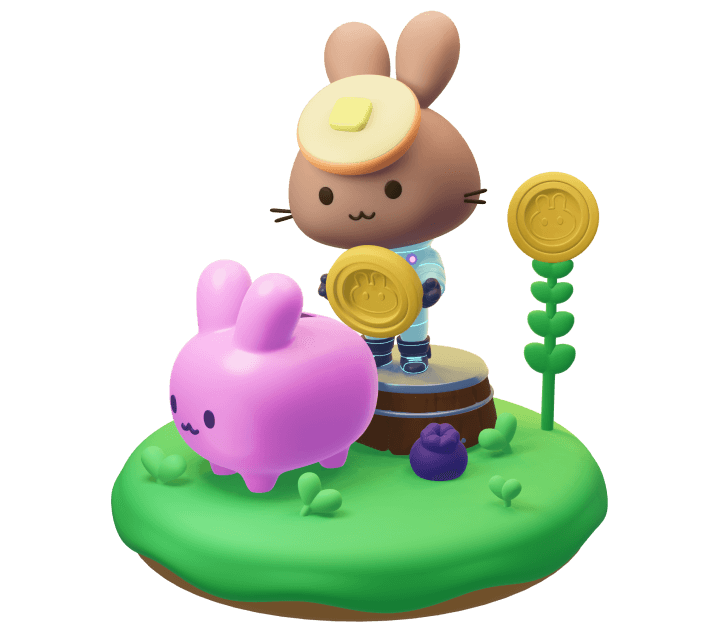
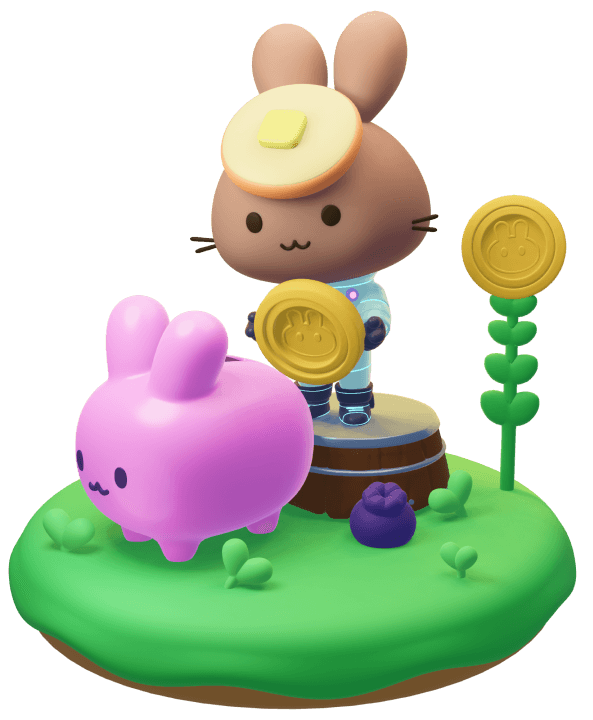
chore: update section 3

diff --git a/apps/web/src/views/Home/components/EcoSystemSection/index.tsx b/apps/web/src/views/Home/components/EcoSystemSection/index.tsx
@@ -1,31 +1,54 @@
-import { Flex, Text } from '@pancakeswap/uikit'
+import { Flex, Text, Box, ChevronRightIcon } from '@pancakeswap/uikit'
 import { useTranslation } from '@pancakeswap/localization'
 import useTheme from 'hooks/useTheme'
 import styled from 'styled-components'
 import { useMemo } from 'react'
-import Image from 'next/image'
+import Image, { StaticImageData } from 'next/image'
 import tradeBunny from '../../images/trade-bunny.png'
 import earnNftBunny from '../../images/earn-bunny.png'
 import gameNftBunny from '../../images/game-nft-bunny.png'
+import tradeSwap from '../../images/trade-swap.png'
+import tradeLiquidity from '../../images/trade-liquidity.png'
+import tradeBridge from '../../images/trade-bridge.png'
+import tradePerpetual from '../../images/trade-perpetual.png'
+import tradeBuy from '../../images/trade-buy-crypto.png'
+import earnFarm from '../../images/earn-farm.png'
+import earnPools from '../../images/earn-pools.png'
+import earnLiquidStaking from '../../images/earn-liquidity-staking.png'
+import earnFixedStaking from '../../images/earn-fixed-staking.png'
+import gamePrediction from '../../images/game-prediction.png'
+import gamePancakeProtectors from '../../images/game-pancake-protectors.png'
+import gameLottery from '../../images/game-lottery.png'
+import gamePottery from '../../images/game-pottery.png'
+import nftMarketplace from '../../images/nft-marketplace.png'
 
 export const CardWrapper = styled.div`
   border-radius: 24px;
-  border: 1px solid ${({ theme }) => theme.colors.cardBorder};
   background: ${({ theme }) => theme.colors.backgroundAlt};
-  box-shadow: 0px 2px 0px 0px ${({ theme }) => theme.colors.cardBorder};
-  width: 1133px;
+  width: 1152px;
   box-sizing: border-box;
-  padding: 32px;
-  margin-bottom: 32px;
-  min-height: 451px;
-  margin-top: 64px;
+  padding: 48px 24px 24px 24px;
+  min-height: 360px;
+  margin-top: 48px;
 `
+
+export const ItemWrapper = styled(Flex)`
+  align-items: left;
+  justify-content: start;
+  flex-direction: column;
+  flex-grow: 1;
+  gap: 12px;
+  cursor: pointer;
+  padding: 12px;
+`
+
 export const Title = styled.div`
-  font-size: 64px;
+  font-size: 32px;
   margin-bottom: 24px;
   font-weight: 600;
   line-height: 110%;
   padding-left: 24px;
+  color: ${({ theme }) => theme.colors.secondary};
 `
 
 const useTradeBlockData = () => {
@@ -34,19 +57,33 @@ const useTradeBlockData = () => {
     return [
       {
         title: t('Swap'),
-        description: t('Trade cryptocurrencies instantly across multiple chains'),
+        description: t('Trade crypto instantly across multiple chains'),
+        ctaTitle: t('Trade Now'),
+        image: tradeSwap,
       },
       {
         title: t('Liquidity'),
         description: t('Fund liquidity pools, earn trading fees'),
+        ctaTitle: t('Add Liquidity'),
+        image: tradeLiquidity,
       },
       {
         title: t('Bridge'),
         description: t('Seamlessly transfer assets across chains'),
+        ctaTitle: t('Bridge Now'),
+        image: tradeBridge,
       },
       {
         title: t('Perpetual'),
+        description: t('Buy crypto with your preferred currency and payment method'),
+        ctaTitle: t('Trade Now'),
+        image: tradePerpetual,
+      },
+      {
+        title: t('Buy Crypto'),
         description: t('Trade endlessly without expiration dates'),
+        ctaTitle: t('Buy Now'),
+        image: tradeBuy,
       },
     ]
   }, [t])
@@ -59,14 +96,26 @@ const useEarnBlockData = () => {
       {
         title: t('Farm'),
         description: t('Stake LP tokens, harvest CAKE'),
+        ctaTitle: t('Stake Now'),
+        image: earnFarm,
       },
       {
         title: t('Pools'),
         description: t('Stake CAKE, earn various rewards'),
+        ctaTitle: t('Stake Now'),
+        image: earnPools,
       },
       {
         title: t('Liquid Staking'),
         description: t('Earn rewards while retaining asset flexibility'),
+        ctaTitle: t('Add Liquidity Now'),
+        image: earnLiquidStaking,
+      },
+      {
+        title: t('Coming Soon'),
+        description: t('Fixed staking'),
+        ctaTitle: t('Learn More'),
+        image: earnFixedStaking,
       },
     ]
   }, [t])
@@ -79,38 +128,63 @@ const useNftGameBlockData = () => {
       {
         title: t('Prediction'),
         description: t('Forecast token prices within minutes'),
+        ctaTitle: t('Try Now'),
+        image: gamePrediction,
       },
       {
         title: t('Pancake Protectors'),
         description: t('Immersive PvP & PvE tower-defense GameFi'),
+        ctaTitle: t('Try Now'),
+        image: gamePancakeProtectors,
       },
       {
         title: t('Lottery'),
         description: t('Enter for a chance to win CAKE prize pools'),
+        ctaTitle: t('Try Now'),
+        image: gameLottery,
       },
       {
         title: t('Pottery'),
         description: t('Stake CAKE, acquire pottery tickets, win prizes'),
+        ctaTitle: t('Try Now'),
+        image: gamePottery,
       },
       {
         title: t('NFT Marketplace'),
         description: t('Trade unique NFTs on BNB Chain'),
+        ctaTitle: t('Try Now'),
+        image: nftMarketplace,
       },
     ]
   }, [t])
 }
 
-const FeatureBox: React.FC<{ title: string; description: string }> = ({ title, description }) => {
+const FeatureBox: React.FC<{
+  title: string
+  description: string
+  image: StaticImageData
+  width: number
+  ctaTitle: string
+}> = ({ title, description, image, width, ctaTitle }) => {
   const { theme } = useTheme()
   return (
-    <Flex justifyContent="center" alignItems="left" flexDirection="column" flexBasis="50%" pr="20px">
-      <Text fontSize="32px" mb="8px" lineHeight="110%" fontWeight={600} color={theme.colors.secondary}>
-        {title}
-      </Text>
-      <Text fontSize="16px" lineHeight="120%" color={theme.colors.text}>
-        {description}
-      </Text>
-    </Flex>
+    <ItemWrapper flexBasis={`${width}%`}>
+      <Image src={image} width={108} height={108} alt={title} />
+      <Box>
+        <Text fontSize="20px" mb="8px" lineHeight="110%" fontWeight={600} color={theme.colors.text}>
+          {title}
+        </Text>
+        <Text fontSize="14px" lineHeight="120%" color={theme.colors.text}>
+          {description}
+        </Text>
+      </Box>
+      <Flex>
+        <Text fontSize="16px" fontWeight={600} color={theme.colors.textSubtle}>
+          {ctaTitle}
+        </Text>
+        <ChevronRightIcon color={theme.colors.textSubtle} />
+      </Flex>
+    </ItemWrapper>
   )
 }
 
@@ -127,35 +201,83 @@ const EcoSystemSection: React.FC = () => {
         {t('Discover the Ecosystem')}
       </Text>
       <CardWrapper>
-        <Title>{t('Trade')}</Title>
         <Flex>
-          <Image src={tradeBunny} alt="tradeBunny" width={353} height={271} placeholder="blur" />
-          <Flex flexWrap="wrap">
-            {tradeBlockData.map((item) => (
-              <FeatureBox key={`${item.title}Block`} title={item.title} description={item.description} />
-            ))}
+          <Image
+            style={{ marginLeft: -72 }}
+            src={tradeBunny}
+            alt="tradeBunny"
+            width={340}
+            height={340}
+            placeholder="blur"
+          />
+          <Flex flexDirection="column">
+            <Title>{t('Trade')}</Title>
+            <Flex>
+              {tradeBlockData.map((item) => (
+                <FeatureBox
+                  key={`${item.title}Block`}
+                  title={item.title}
+                  description={item.description}
+                  image={item.image}
+                  width={100 / tradeBlockData.length}
+                  ctaTitle={item.ctaTitle}
+                />
+              ))}
+            </Flex>
           </Flex>
         </Flex>
       </CardWrapper>
       <CardWrapper>
-        <Title>{t('Earn')}</Title>
         <Flex style={{ gap: 32 }}>
-          <Flex flexWrap="wrap" pl="24px">
-            {earnBlockData.map((item) => (
-              <FeatureBox key={`${item.title}Block`} title={item.title} description={item.description} />
-            ))}
+          <Flex flexDirection="column">
+            <Title>{t('Earn')}</Title>
+            <Flex pl="24px">
+              {earnBlockData.map((item) => (
+                <FeatureBox
+                  key={`${item.title}Block`}
+                  title={item.title}
+                  description={item.description}
+                  image={item.image}
+                  width={100 / tradeBlockData.length}
+                  ctaTitle={item.ctaTitle}
+                />
+              ))}
+            </Flex>
           </Flex>
-          <Image src={earnNftBunny} alt="earnNftBunny" width={315} height={314} placeholder="blur" />
+          <Image
+            style={{ marginRight: -72 }}
+            src={earnNftBunny}
+            alt="earnNftBunny"
+            width={296}
+            height={360}
+            placeholder="blur"
+          />
         </Flex>
       </CardWrapper>
       <CardWrapper>
-        <Title>{t('Game & NFT')}</Title>
         <Flex style={{ gap: 32 }}>
-          <Image src={gameNftBunny} alt="gameNftBunny" width={326} height={326} placeholder="blur" />
-          <Flex flexWrap="wrap">
-            {nftGameBlockData.map((item) => (
-              <FeatureBox key={`${item.title}Block`} title={item.title} description={item.description} />
-            ))}
+          <Image
+            style={{ marginLeft: -72 }}
+            src={gameNftBunny}
+            alt="gameNftBunny"
+            width={344}
+            height={360}
+            placeholder="blur"
+          />
+          <Flex flexDirection="column">
+            <Title>{t('Game & NFT')}</Title>
+            <Flex>
+              {nftGameBlockData.map((item) => (
+                <FeatureBox
+                  key={`${item.title}Block`}
+                  title={item.title}
+                  description={item.description}
+                  image={item.image}
+                  width={100 / tradeBlockData.length}
+                  ctaTitle={item.ctaTitle}
+                />
+              ))}
+            </Flex>
           </Flex>
         </Flex>
       </CardWrapper>
